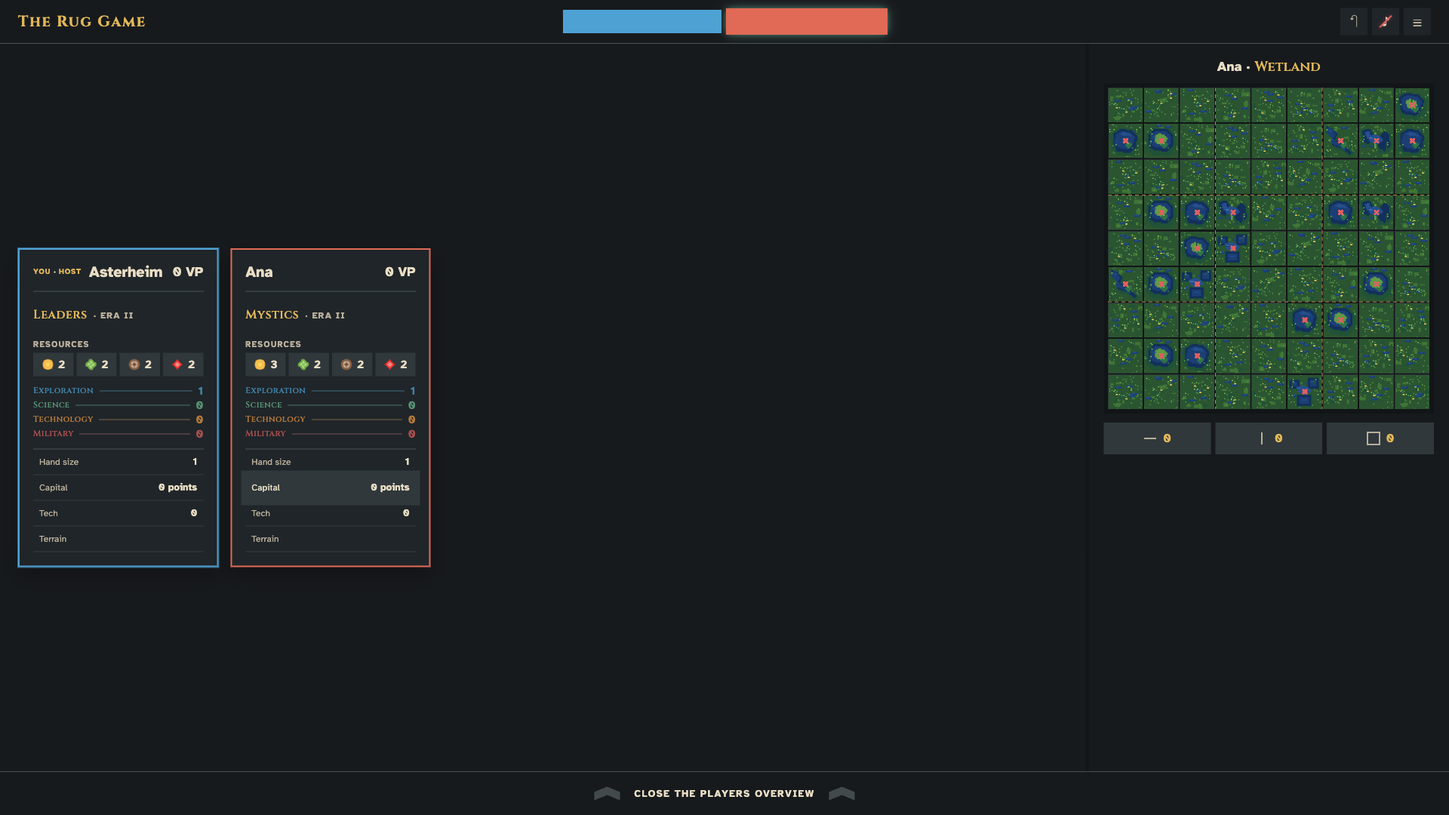
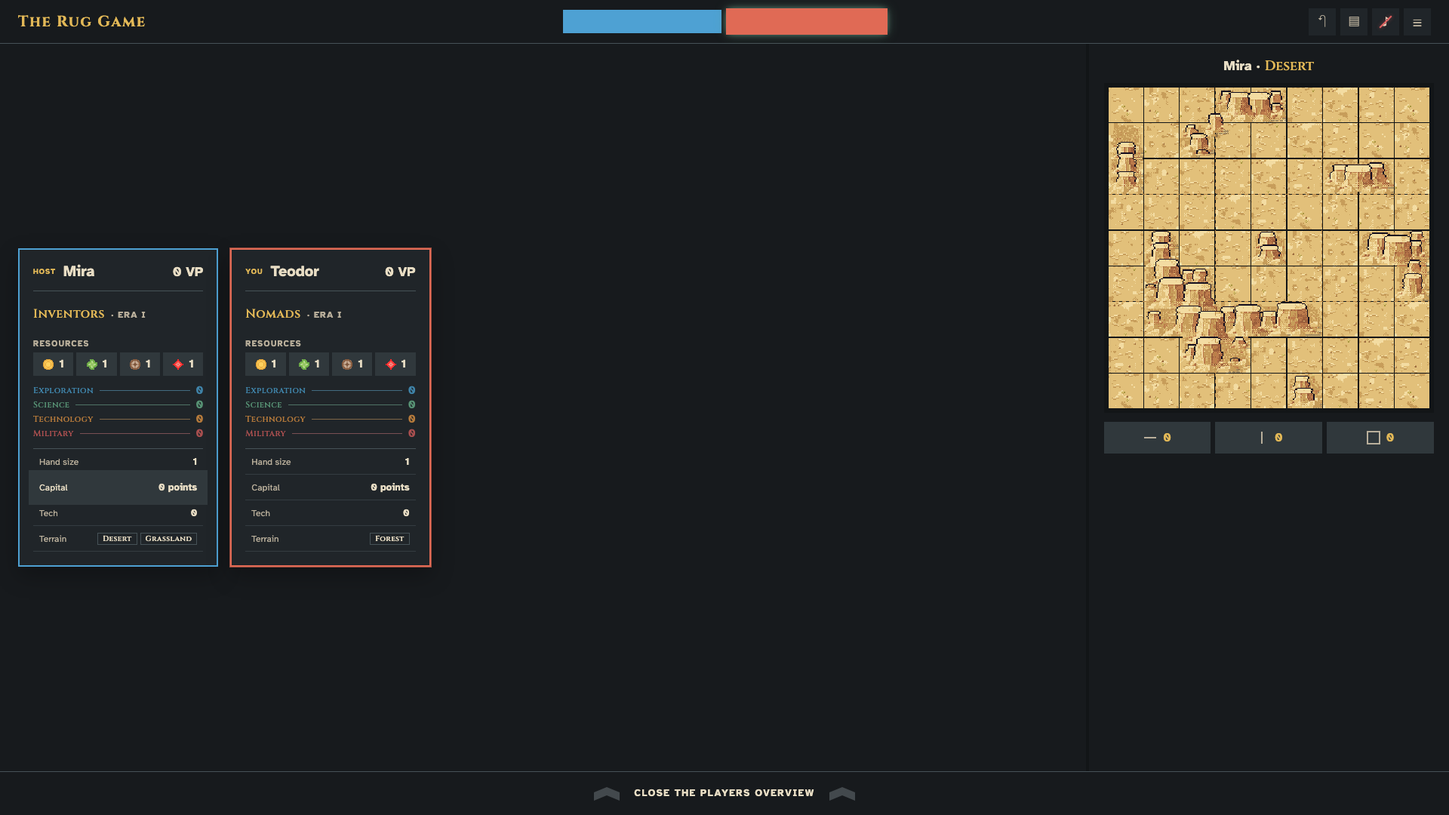
Fix #82: release the joined 2.5D terrain of the six base mats
The README's capital screenshots are retaken from the running game at 1920×1080: the
Capital tab (a Wetland mat with an Architects' cube), the players overview (a Desert
capital), the mats on offer at setup (Mountain and Forest), and the library's CapitalGrid.
README.md restates the owner's ruling on composed capitals; docs/ui/README.md drops the
red X and records the relief; docs/art/README.md adds capital-relief/ and the approval
rule; docs/architecture.md and docs/status.md record #82 and hand on #132, #133 and #134.

diff --git a/README.md b/README.md
@@ -14,19 +14,19 @@ No official Stonemaier artwork, logos or rulebook text are used.
 
 ## Current interface
 
-The six full capital mat SVGs are examples only. Actual capital mats must be generated from the reusable terrain tiles for each game, following the game setup and the rules-defined plot layout.
+The full capital mat SVGs are examples only. A game's capital is composed from its mat's printed layout: the buildable ground from reusable tiles picked by the table's seed, and the impassable plots from one relief picture per mat, drawn once by the art toolkit (owner, 2026-10-28, #82).
 
 The owner-reviewed icons and small pieces from **#5** are available as SVGs in `static/art/`, with matching drawing sources and stable catalog ids. [The release notes](docs/art/issue-5.md) list the approved set and explain the text rendering or later artwork for dice faces, terrain hex markers and game symbols. [The complete review mockup](docs/art/archive/2026-10-23-issue-5/README.md), including its linked capital terrain page, is archived as a frozen reference.
 
-| Resource components using the approved SVGs | Capital composed from terrain tiles |
+| Resource components using the approved SVGs | Capital composed from ground tiles under its relief (#82) |
 |---|---|
-| ![Resource component examples with the approved artwork](docs/ui/screens/issue-5-components-resources.png) | ![Capital component composed from tile SVGs and income-building artwork](docs/ui/screens/issue-5-components-capital.png) |
+| ![Resource component examples with the approved artwork](docs/ui/screens/issue-5-components-resources.png) | ![The component library's CapitalGrid: the Mountain mat's peaks joined across the grid over its alpine meadow, an Architects' cube on the top-left plot and a farm clearing the relief on an impassable plot, with the Forest mat's woods below](docs/ui/screens/issue-5-components-capital.png) |
 
-The component library now uses the approved resources in prices and chips, income-building SVGs on capital plots, track symbols in headings, and player-color token SVGs on progress lanes. Its Art sections show the complete issue #5 set and explain the three deferred groups. Capital examples compose individual terrain tile SVGs using their supplied biome, visual seed and plot mask; the six full mat SVGs remain example compositions only.
+The component library now uses the approved resources in prices and chips, income-building SVGs on capital plots, track symbols in headings, and player-color token SVGs on progress lanes. Its Art sections show the complete issue #5 set and explain the three deferred groups. Capital examples compose the ground tile SVGs from their supplied biome, visual seed and plot mask, and lay the mat's relief over its impassable plots (#82); the full mat SVGs remain example compositions only.
 
 The **UI/UX handoff for #3** is in [docs/ui/README.md](docs/ui/README.md). It is the manifest for building the real game pages: layout, typography, colours, control states, placement and decision examples. The HTML pages are interactive mockups with fixture data.
 
-**The landing page, the lobby (#25) and the play screen (#26) are built** and run on the real table API. Sign in by name, create or join a table, set it up and start; then play: the Advancement Tracks with the spaces you can pay for, the World Map as the real board's hex grid, composed from the terrain art (#6), the footer turn (income, or advance), and a designed prompt for every other decision (#28): resources and payments with their art, cards on a shelf above the panel, the map's territories with each explore's tile, turn and VP, buildings and landmarks placed on the Capital tab, dice and tracks, and the gold income turn with its steps. Several resources, cards or tiles are picked one by one, as on Board Game Arena (#75): each resource to choose is a row of the four resources, cards and tiles are pictures pressed several at once, and the panel sits at the screen's centre; an advance with a choice of payment opens that panel as soon as its space is picked. Every roll of the dice tumbles in the middle of every screen at the table, lands on the rolled faces under a caption, and fades (#61). A first turn is never a choice, so the game takes every player's income turn 1 as setup ends; each player then sees a notice, once, saying so and what they start with. A turn with no advance to pay for says so, with a gold **Take income** where **Advance** sits (#77). **How to play** in the game's menu explains the rules in our own words, one tab per part of the game, and a **Keyboard shortcuts** entry opens it on the list of every shortcut; hovering a player's chip reads their civilization's full ability (#42). The game plays from the keyboard too (#83): **I** takes income after asking first (as the **Take income** button does), **A** then **1–4** advances on a track, **Q W E R T Y U** switch the player tabs, **M** goes to the World Map, **1–5** open the players overview on a player, and holding **Tab** shows the log and scores. Each track space shows its benefit and its bonus, as on the printed board (#59); at setup each capital mat on offer is its real 9×9 grid (#56) and the civilization cards are whole at full size (#57, #58). The player area (#27) has the Capital, Hand, Income, Eras, Civ, Tech and Terrain tabs, with real tech and tapestry cards, and the header chips open the players overview. A whole base game can be played with the mouse. At a hot-seat table, a pass screen (#30) stands between players: it names the next one, whose view isn't even loaded until they take the screen. A defender at a hot-seat table answers a conquest themselves, trap or not, so nothing gives a trap away. When the game ends, the results screen (#29) shows the final standings with each player's VP by source, how any tie was decided and the table's rules; the host can deal again. The header's log button opens the table log and the current scores; sound cues start muted, and a little motion marks what just happened. Run `npm start` and open <http://127.0.0.1:3020/>.
+**The landing page, the lobby (#25) and the play screen (#26) are built** and run on the real table API. Sign in by name, create or join a table, set it up and start; then play: the Advancement Tracks with the spaces you can pay for, the World Map as the real board's hex grid, composed from the terrain art (#6), the footer turn (income, or advance), and a designed prompt for every other decision (#28): resources and payments with their art, cards on a shelf above the panel, the map's territories with each explore's tile, turn and VP, buildings and landmarks placed on the Capital tab, dice and tracks, and the gold income turn with its steps. Several resources, cards or tiles are picked one by one, as on Board Game Arena (#75): each resource to choose is a row of the four resources, cards and tiles are pictures pressed several at once, and the panel sits at the screen's centre; an advance with a choice of payment opens that panel as soon as its space is picked. Every roll of the dice tumbles in the middle of every screen at the table, lands on the rolled faces under a caption, and fades (#61). A first turn is never a choice, so the game takes every player's income turn 1 as setup ends; each player then sees a notice, once, saying so and what they start with. A turn with no advance to pay for says so, with a gold **Take income** where **Advance** sits (#77). **How to play** in the game's menu explains the rules in our own words, one tab per part of the game, and a **Keyboard shortcuts** entry opens it on the list of every shortcut; hovering a player's chip reads their civilization's full ability (#42). The game plays from the keyboard too (#83): **I** takes income after asking first (as the **Take income** button does), **A** then **1–4** advances on a track, **Q W E R T Y U** switch the player tabs, **M** goes to the World Map, **1–5** open the players overview on a player, and holding **Tab** shows the log and scores. Each track space shows its benefit and its bonus, as on the printed board (#59); at setup each capital mat on offer is its real 9×9 grid (#56) and the civilization cards are whole at full size (#57, #58). Each base mat's impassable plots are one 2.5D picture, its relief, laid over natural ground (#82): mountains, woods, reed beds round dark pools, jungle, desert buttes and rocky hills that join across the grid lines where the plots touch, with no red X. The Architects' cubes are small pieces on their plots, and a building on an impassable plot clears the relief there. The player area (#27) has the Capital, Hand, Income, Eras, Civ, Tech and Terrain tabs, with real tech and tapestry cards, and the header chips open the players overview. A whole base game can be played with the mouse. At a hot-seat table, a pass screen (#30) stands between players: it names the next one, whose view isn't even loaded until they take the screen. A defender at a hot-seat table answers a conquest themselves, trap or not, so nothing gives a trap away. When the game ends, the results screen (#29) shows the final standings with each player's VP by source, how any tie was decided and the table's rules; the host can deal again. The header's log button opens the table log and the current scores; sound cues start muted, and a little motion marks what just happened. Run `npm start` and open <http://127.0.0.1:3020/>.
 
 **The boards (#6)** are drawn: the map's six terrain hex pictures, the 48 territory tiles (clouds exactly where R77 says), both map sides as examples, and the 12 advanced capital biomes with their example mats. The game composes its map from the terrain pictures, as it composes the capital from its plot tiles. They wait for the owner's approval in the component library's Art part.
 
@@ -42,11 +42,11 @@ The colours, texture, type, spacing, shadows and motion of these designs are in 
 
 | Play: the player area (Capital) | Play: the players overview |
 |---|---|
-| ![The play screen with the Capital tab: Mira's Wetland mat with the Lighthouse placed, and the completion counters](docs/ui/screens/game-player-area.png) | ![The players overview: a card per player and Ana's Wetland capital opened on the right](docs/ui/screens/game-overview.png) |
+| ![The play screen with the Capital tab (#82): Teodor's Wetland mat, its reed beds and dark pools joined across the grid over a wet meadow, an Architects' cube on the top-left plot, and the completion counters](docs/ui/screens/game-player-area.png) | ![The players overview (#82): a card per player and Mira's Desert capital opened on the right, its buttes standing on pale sand](docs/ui/screens/game-overview.png) |
 
 | Prompt: choosing a capital | Prompt: choosing a civilization |
 |---|---|
-| ![The capital choice at the tracks' centre (#79): both mats as their 9×9 grids of terrain tiles above the panel, the chosen one outlined](docs/ui/screens/game-prompt-capital-mat.png) | ![The civilization choice at the tracks' centre (#79): both cards whole, sized to the room above the panel, the chosen one outlined in gold](docs/ui/screens/game-prompt-civ.png) |
+| ![The capital choice at the tracks' centre (#79, #82): the Mountain and Forest mats as their 9×9 grids, each with its relief over its ground, above the panel; the Mountain is chosen and outlined](docs/ui/screens/game-prompt-capital-mat.png) | ![The civilization choice at the tracks' centre (#79): both cards whole, sized to the room above the panel, the chosen one outlined in gold](docs/ui/screens/game-prompt-civ.png) |
 
 | Prompt: cards on the shelf (the tapestry draft) | Prompt: tech cards to invent |
 |---|---|

diff --git a/docs/ui/README.md b/docs/ui/README.md
@@ -216,9 +216,9 @@ The arrangement and selection styling are the reference. Labels such as Archipel
 
 **Built in #27 (2026-10-27): the player area and the players overview.**
 
-![The player area with the Capital tab](screens/game-player-area.png)
+![The player area with the Capital tab: Teodor's Wetland mat with its relief (#82) and an Architects' cube on the top-left plot](screens/game-player-area.png)
 
-![The players overview](screens/game-overview.png)
+![The players overview, with Mira's Desert capital opened on the right](screens/game-overview.png)
 
 - **The tabs** are the mockup's: Capital (the seat's real mat and plots, landmarks over the edge allowed, the counters, and what lies beside the mat), Hand (the tapestry cards overlapping; hovering shows one in full over the shared area), Income (the four rows, covered spaces with their building, exposed ones with their reward in words), Eras (the four slots, a face-down card shown as such, the active card in full), Civ (the reviewed card for the twelve base civilizations with a recipe, a plain portrait card for the other four until #47), Tech (the three rows and the display with the deck count) and Terrain (territory tiles drawn like the map's, and space tiles).
 - **Real cards:** the tech and tapestry cards are built from the engine's data through `describe.js`; no text is invented. Lazar's fixtures stay for the library and the card review.
@@ -227,7 +227,7 @@ The arrangement and selection styling are the reference. Labels such as Archipel
 
 **Built in #28 (2026-10-27): the decision prompts.**
 
-![Choosing a capital: each mat as its 9×9 grid](screens/game-prompt-capital-mat.png)
+![Choosing a capital: the Mountain and Forest mats as their 9×9 grids, each with its relief, the Mountain chosen](screens/game-prompt-capital-mat.png)
 
 ![Choosing a civilization: the cards whole](screens/game-prompt-civ.png)
 
@@ -298,6 +298,15 @@ The arrangement and selection styling are the reference. Labels such as Archipel
 - **The board and the players:** **M** goes to the World Map and back; **1–5** open the players overview on that player's capital, the same key closes it; holding **Tab** shows the log and scores until it is let go (a tap still moves the focus); **L** opens or closes them.
 - **Your player area:** **Q W E R T Y U** are Capital, Hand, Income, Eras, Civ, Tech and Terrain. **,** and **.** turn an explore's tile or a landmark being placed, since R is now the Eras tab. **H** and **K** open How to play and its Keyboard shortcuts tab.
 - No key acts while typing in a field, with Ctrl, Alt or Cmd held, in a menu or over How to play; an action key does nothing unless its action is available (`src/lib/hotkeys.js`).
+
+**Built in #82 (2026-10-28): the joined terrain of the base mats.** The owner set the look over five rounds of sketches and approved all six base mats in the component library on 2026-10-28. The design is `docs/superpowers/specs/2026-10-28-joined-terrain-design.md`. The Capital tab, the players overview and the mats on offer at setup all show it: see the screenshots under #27 and #28 above.
+
+- **One relief per mat.** A mat's impassable plots are one 2.5D picture, `capital-relief/<mat>`, drawn once from its printed layout and laid over the grid: mountains, woods, reed beds round dark pools, jungle, desert buttes or rocky hills. Plots that touch by a side or a corner are one mass, with no line inside it.
+- **Natural ground.** Every plot has a ground tile, picked by the table's seed as before, and the relief lies over the impassable ones.
+- **No red X** and no flat `--chrome` background on impassable plots (owner, 2026-10-28): the art shows which plots they are.
+- **Changes in play.** A building on an impassable plot (Terraforming) clears the relief on that plot. An Architects' cube is a small piece, `piece/architects-cube`, on its plot's ground.
+- **The grid's gap** is 1/296 of its width, so the plots line up with the relief's pixels.
+- The expansion mats keep their impassable tiles until #132 and #133 draw their reliefs.
 
 ### Three horizontal bands
 
@@ -375,7 +384,7 @@ No costs are really paid and no VP totals are persisted. The chained example pla
 
 The capital is always **9×9**. Its title is Atkinson with only the mat type, such as Mountain, in Cinzel. There is no separate legend or second city grid. Three equal-width completion counters sit beneath the grid with a gap equal to their mutual gaps; together they span the grid width. Use horizontal-line, vertical-line and square symbols for rows, columns and districts. Do not add the heading “Completed”.
 
-- The Mountain example uses the canonical 9×9 passable/impassable mask from `src/lib/engine/data/capitals.js`. Each plot uses a deterministic mix of the native Mountain open or blocked terrain tiles. Impassable plots retain a small, thick red X. District boundaries are thin dashed overlays between 3×3 districts; they do not recolour the ordinary plot borders.
+- The Mountain example uses the canonical 9×9 passable/impassable mask from `src/lib/engine/data/capitals.js`. Each plot uses a deterministic mix of the Mountain's ground tiles, and the mat's relief lies over its impassable plots: one 2.5D picture whose peaks join across the grid lines where the plots touch. Impassable plots have no red X (owner, 2026-10-28, #82); the mockup and its screenshots predate this and still show per-plot tiles with red Xs. District boundaries are thin dashed overlays between 3×3 districts; they do not recolour the ordinary plot borders.
 - Completion counts derive from filled rows, columns and nine-plot districts. Hovering a counter adds one flat transparent green rectangle across each whole completed group. It has no border, no glow, and covers all buildings, including a newly locked landmark. Do not highlight each plot as a separate green box.
 - A **To be placed** section appears only when an item is pending. It is full width, outlined to attract attention, and holds the item's Cinzel name. Selecting the item gives it an outline. The name stays in the tray and is not shown over the grid while dragging.
 - The Lighthouse example uses the actual landmark illustration and **four plots, a 2×2 footprint**. The whole piece is draggable. On release, it snaps to a legal position; it cannot enlarge or wrap the grid. It can be moved again before confirmation.
@@ -405,7 +414,7 @@ Each card contains, in order:
 
 Civilization/era, Capital and Tech summary rows are clickable examples. Hand size, resource amounts and track summaries are not clickable. A selected row gets a whole-row gray background without moving its text, expanding the card or keeping an internal border around letters. Hide the usual row-bottom separator while that row is selected.
 
-The right region initially says **Waiting for overview** at its centre. Ana's Capital row is the developed drill-down: it shows a second 9×9 capital with the same sizing, red Xs and completion-counter layout as the ordinary right-panel Capital tab. Its example filled rows, columns and districts can be inspected by hover or toggled by click. Other clickable rows only demonstrate selection and retain the waiting panel; do not treat them as completed views. Opponents' hands remain private and show counts only.
+The right region initially says **Waiting for overview** at its centre. Ana's Capital row is the developed drill-down: it shows a second 9×9 capital with the same sizing, relief and completion-counter layout as the ordinary right-panel Capital tab. The mockup's screenshot below predates the relief (#82) and still shows red Xs. Its example filled rows, columns and districts can be inspected by hover or toggled by click. Other clickable rows only demonstrate selection and retain the waiting panel; do not treat them as completed views. Opponents' hands remain private and show counts only.
 
 ![Inspecting Ana's capital](screens/opponent-capital.png)
 

diff --git a/docs/art/README.md b/docs/art/README.md
@@ -22,7 +22,9 @@ The design is in [2026-10-21-art-toolkit-design.md](../superpowers/specs/2026-10
 | `tools/art/painter.js` | The canvas, drawing helpers (`set`, `rect`, `line`, and `paint` for small sprites drawn from rows of keys), `outline`, `mix`, `seededRandom`, `underlay` and `toSvg` |
 | `tools/art/effects.js` | Light passes that blend colours over a painted canvas: `glow`, a banded glow around a lamp or fire. They live outside `tools/art/parts/`, whose parts paint only palette colours |
 | `tools/art/palette.js` | `PALETTE`: every named style C colour |
-| `tools/art/parts/` | Scene parts: `drawSky` (night, day, dusk), `drawSea` (night, day), `drawTerrain` (forest, mountain, desert, grassland), `drawBuilding` (house, tower, wall), `drawFigure`, `drawSmoke` (smoke, steam), `drawClassical` (pediment, flat), `drawFactory`, `drawSkyline` (night, dusk, day), `drawStreet`, `drawShip` (1–3 masts, either way, sails set or furled), `drawInterior` (plaster, stone, panel; with a window onto any sky), `drawBanner` (flag, hanging), `drawCrowd` and `drawWheel`. Board parts: `capital-terrain.js` (the capital plots and example mats), `capital-biomes/` (one module per advanced biome, #6: its 32×32 plots, its printed `LAYOUT` and its example mat), `territory.js` (#6: the terrain hex pictures, the cloud and volcano overlays, `drawTerritory` and the example boards) and `inspiration-tile.js` (`drawInspirationTile`, the strip of six framed spaces that each inspiration tile's innovations are drawn on) |
+| `tools/art/parts/` | Scene parts: `drawSky` (night, day, dusk), `drawSea` (night, day), `drawTerrain` (forest, mountain, desert, grassland), `drawBuilding` (house, tower, wall), `drawFigure`, `drawSmoke` (smoke, steam), `drawClassical` (pediment, flat), `drawFactory`, `drawSkyline` (night, dusk, day), `drawStreet`, `drawShip` (1–3 masts, either way, sails set or furled), `drawInterior` (plaster, stone, panel; with a window onto any sky), `drawBanner` (flag, hanging), `drawCrowd` and `drawWheel`. Board parts: `capital-terrain.js` (the base mats' buildable ground tiles and example mats), `capital-relief/` (below), `capital-biomes/` (one module per advanced biome, #6: its 32×32 plots, its printed `LAYOUT` and its example mat), `territory.js` (#6: the terrain hex pictures, the cloud and volcano overlays, `drawTerritory` and the example boards) and `inspiration-tile.js` (`drawInspirationTile`, the strip of six framed spaces that each inspiration tile's innovations are drawn on) |
+| `tools/art/parts/capital-relief/` | The joined 2.5D terrain of a capital mat's impassable plots (#82): `footprint.js` (the groups, the footprint and where the art may reach, corner patches included), `ground.js` (`drawNaturalGround`, the buildable ground of each base biome), one painter per base biome (`mountain.js`, `forest.js`, `wetland.js`, `tropical.js`, `desert.js`, `grassland.js`), and `index.js` (`drawRelief`, the relief alone on a transparent canvas, and `drawReliefPreview`, the relief over its ground as the game shows it, plus the specimen layout the library reviews each biome on) |
+| `src/lib/art/relief.js` | `RELIEF_BIOMES` (the biomes with a relief: the six base ones), `PLOT`, `GAP`, `PITCH` and `reliefSize`, shared by the art and the game's `CapitalGrid` |
 | `src/lib/art/footprints.js` | `FOOTPRINTS` for the 33 landmarks, `PLOT_SIZE` (32), `footprintMismatches` and `clipToFootprint` |
 | `src/lib/art/catalog.js` | `ASSETS`: every asset the game needs, with its stable id, plus `GROUPS` and `EXPANSIONS` |
 | `src/lib/art/hex-overlays.js` | Where the cloud and the volcano sit in a territory's 64×56 picture, shared by the art and the game's map (#6) |
@@ -79,6 +81,7 @@ The Lighthouse (`tools/art/drawings/landmark/lighthouse.js`) is the worked examp
   - Use `seededRandom(seed)`, never `Math.random()`, so a drawing comes out the same every time.
   - Give every part in one scene the same random stream.
 - **Review.** The owner approves art in the Art part of the component library (`/components.html`), until the players' card gallery (#47) exists. It replaced the standalone `art/preview/index.html` gallery on 2026-10-21.
+- **Approved assets.** [approved-assets.json](approved-assets.json) pins each approved asset's id, size and SVG hash, and `tests/art-approved.test.mjs` fails when one of them changes. The manifest is updated with the art on the issue branch, which merges only after the owner approves the batch (#82). Recompute an entry from `renderAsset(id)` in `tools/art/build.mjs`, as the test does; never type a hash by hand.
 
 Resource symbols have two active native sizes: 24×24 and 48×48. Their owner-supplied PNGs and exact-color SVG vectors are in `tools/art/exports/resources-24px-png/` and `tools/art/exports/resources-48px-png/`; the rendered SVGs are in `static/art/resource-24/` and `static/art/resource-48/`. Each source pixel is either opaque or fully transparent. The former 32×32 set is deprecated and archived in `docs/art/archive/resource-32-deprecated/`.
 
@@ -95,5 +98,13 @@ The map is composed, as the capital is (#5): the game never shows a painted boar
 - **Territory tiles.** `territory-tile/1–48` are the same composition in pixels. The game uses them nowhere that it composes: they are for the gallery's review.
 - **Example boards.** `board/map-small` and `board/map-large` are examples too, like the base capital mats.
 - **Clouds are game data (R77).** The engine's `TERRITORY_TILES` and printed hexes carry `clouds` and `volcano`. The art draws a cloud only where they say, in colours nothing else on the map uses, and `tests/art-territory.test.mjs` checks every tile and board against R77.
-- **Advanced capitals.** Each of the 12 advanced biomes has 8 buildable and 6 impassable 32×32 plots, and an example mat on its printed layout from 03-expansions. What the research doesn't show (rule text, icons, frames) is left out; each module says what.
+- **Advanced capitals.** Each of the 12 advanced biomes has 8 buildable and 6 impassable 32×32 plots, and an example mat on its printed layout from 03-expansions. What the research doesn't show (rule text, icons, frames) is left out; each module says what. #132 and #133 replace their impassable plots with reliefs, as #82 did for the base mats.
+
+## The joined terrain of the base mats (#82, 2026-10-28)
+
+The owner approved all six base mats on 2026-10-28. The design is [2026-10-28-joined-terrain-design.md](../superpowers/specs/2026-10-28-joined-terrain-design.md), and the approved sketch is kept in [issue-82/](issue-82/).
+- **One relief per mat.** `capital-relief/<mat>` is the mat's impassable plots drawn as one transparent picture from its printed layout: 32-pixel plots with 1-pixel gaps, so 296×296 for a 9×9 mat. Plots that touch by a side or a corner are one mass. The game lays it over the grid.
+- **The ground stays per plot.** `capital-terrain/<biome>-open-01` to `-08` are each base biome's natural ground, and the game still picks one per plot from the table's seed.
+- **The base impassable tiles are retired.** `capital-terrain/<biome>-blocked-*` no longer exist for the six base biomes; the expansion biomes keep theirs until #132 and #133.
+- **The example mats** `capital-mat/<biome>` are the ground with the relief over it, 296×296.
 

diff --git a/docs/status.md b/docs/status.md
@@ -8,7 +8,7 @@ Updated 2026-10-28. The issues are listed in the order they were finished.
 
 - **At a glance:**
   - M0 to M5 are built: a whole base game can be played with the mouse, online or hot-seat. One of their issues is still open: #45 (the owner checks R12 and R39 against the box).
-  - M12 · Cosmetic enhancements: #61, #66, #67, #68, #69, #70, #72, #74, #75, #79 and #80 are done.
+  - M12 · Cosmetic enhancements: #61, #66, #67, #68, #69, #70, #72, #74, #75, #79 and #80 are done. #82 (the joined terrain of the base mats) is built and its art approved; it closes when its branch merges into main.
   - #80's scan filed #84 and #86–#131, ranked in its summary comment.
   - Solo play (M6) and the expansions (M7–M9) come next by milestone; see [Working on issues](../CLAUDE.md#working-on-issues) for the order and the blockers.
 - **Done:**
@@ -29,6 +29,7 @@ Updated 2026-10-28. The issues are listed in the order they were finished.
   - #83 (the game's hotkeys) is done; its commit closed it on 2026-10-28, and the owner can still check the new TurnBar states in the component library.
   - #79 (every decision prompt at the tracks' centre, the prompt out of `Game.svelte`) is done; it merged and closed on 2026-10-28, after the owner's ruling on the library.
   - #80 is done: its findings are #84 and #86–#131.
+  - #82 (the joined terrain of the base mats) is built, and the owner approved all six base mats in the component library on 2026-10-28. It closes when its branch merges into main. The expansion mats follow in #132 (M8) and #133 (M9), and the World Map's terrain in #134 (M12).
   - Then the next unblocked issues by milestone (see [Working on issues](../CLAUDE.md#working-on-issues)).
   - #45 Check R12 (landmark heights) and R39 (decision-card arrows) against the physical box. This is the owner's job, and it blocks nothing.
   - The cosmetic boards wait in #51 until the core features are done.
@@ -58,6 +59,7 @@ Many issues were built without a question round, so their designs mark every uns
 - [#77 (the first turn takes income by itself)](#77-the-first-turn-takes-income-by-itself)
 - [#42 (How to play in the game)](#42-how-to-play-in-the-game)
 - [#83 (the game's hotkeys)](#83-the-games-hotkeys)
+- [#82 (the joined terrain of the base mats)](#82-the-joined-terrain-of-the-base-mats)
 
 ## Issues
 
@@ -514,6 +516,20 @@ Built on 2026-10-28. The design is `docs/superpowers/specs/2026-10-28-decision-p
   - Calls to revisit: the stack is centred in the shared area, so on the vertical its middle is the screen's, a little above the tracks' own middle (the board's head row sits above them); a dice roll over a stack of cards rolls over the player area; the options panel's 480 to 900 px width and the shelf's 18 px gap are #28's.
   - Tests: `tests/client-prompts.test.mjs` (`panelControls`, `paymentControls`), `tests/client-prompt-state.test.mjs` (resets, explore, picks, trades, shelf, placement, payment, sending), `tests/client-board.test.mjs` (`spaceWords`), `tests/browser/decision-prompt.test.mjs` (a card choice and an options prompt open at the tracks' centre); the pick tests measure against the tracks' centre.
   - Handed off: #86, #88, #92, #96, #97, #99, #105, #116, #117, #118, #119, #126, #129 and #131 waited for this.
+
+### #82 (the joined terrain of the base mats)
+
+Built on 2026-10-28. The owner set the look over five rounds of throwaway sketches ("More realistic and less symbolic", "Make it visually appear 2.5D"), then approved all six base mats in the component library on 2026-10-28 ("ok push to main"). Mountain and Forest were drawn first, from the approved sketch; Wetland, Tropical, Desert and Grassland followed without one. The owner scoped the issue to the base game ("just the base game for now"). The design is `docs/superpowers/specs/2026-10-28-joined-terrain-design.md` and the plan `docs/superpowers/plans/2026-10-28-joined-terrain-issue-82.md`.
+- Built: `tools/art/parts/capital-relief/` draws a mat's impassable plots as one 2.5D picture, its relief (`capital-relief/<mat>`, 296×296, transparent), from the mat's printed layout. Plots joined by a side or a corner make one group. Its footprint is inset from the open sides with rounded corners, and a corner-only join gets a small patch that may reach into the buildable plots' corners (owner). Each biome has a painter: snow-capped peaks, broadleaf trees and pines, reed beds round dark pools, jungle with palms, sandstone buttes among dunes, and grassy hills with stone tors. `ground.js` draws each biome's natural ground.
+  - The base `capital-terrain/<biome>-open-01` to `-08` are now that natural ground, and the example mats `capital-mat/<biome>` are the ground with the relief over it.
+  - `CapitalGrid` lays the relief over its ground tiles, under the buildings. The red X and the flat background on impassable plots are gone (owner), and the gap is 1/296 of the width, so the plots line up with the relief's pixels.
+  - `src/lib/capital-terrain.js` (`plotTerrain`, `reliefUrl`) decides what each plot shows. A building on a printed impassable plot (Terraforming) clears the relief there. An Architects' cube is now a piece of its own, `piece/architects-cube`, on its plot's ground.
+  - The library's Art area has a Capital relief group: each mat's relief on its ground, and a specimen sheet per biome with every kind of join.
+- Released: the 36 base impassable tiles are retired, with their drawings, SVGs and catalog entries. `docs/art/approved-assets.json` pins the redrawn ground tiles and example mats, the six reliefs and the cube: 101 entries. From now on the manifest is updated with the art on the issue branch, which merges only after the owner approves the batch (`docs/art/README.md`).
+- The README's capital screenshots are retaken from the running game: the Capital tab, the players overview, the mats on offer at setup and the library's CapitalGrid.
+- Calls to revisit after playing: Tropical's palms barely read as palms at the Capital tab's size; the Desert's butte outlines are strong; the Grassland's golden ground may read as sand. Each mat's relief is the same in every game, like the printed mat, and only the ground varies with the table's seed (my call).
+- Tests: `tests/art-capital-relief.test.mjs` (the groups, joins, footprints and corner patches on every base mat and the specimen layouts; each relief the same in every build, palette colours only, nothing on a buildable plot outside a corner patch; each biome's ground and corner piece), `art-capital-terrain` (the natural ground and the 296×296 example mats), `client-capital-terrain` (what each plot shows), `art-approved` (the 101 pinned assets), and the library's browser tests (the relief's place in the stack, the cube, a cleared plot, the gap, a landmark over the edge, a mat on offer, and targets under a corner patch).
+- Handed off: #132 (the Arts & Architecture mats' reliefs, M8) and #133 (the Fantasies & Futures mats', M9), each done the same way, with the advanced mats' printed features kept; #134 (the World Map's terrain hexes and territory tiles in the 2.5D style, M12).
 
 ## Card-design handoff (2026-10-24, Refs #3 #47)
 

diff --git a/docs/architecture.md b/docs/architecture.md
@@ -28,7 +28,9 @@ The project's modules in detail, with the issue that added each. CLAUDE.md keeps
     - `component-event.js` holds `ComponentEvent`;
     - `ui.js` holds the shared interface ids (tracks, resources, terrain, seats) and turns them into token references;
     - `capital.js` holds the capital-grid geometry the interface needs: footprint rotation, legal positions and completed groups;
-    - `art/catalog.js` lists all 413 assets with stable `<group>/<slug>` ids. It imports nothing, so the app and the engine can load it;
+    - `capital-terrain.js` (#82) decides what each capital plot shows: `plotTerrain` gives its ground tile, whether a building cleared a printed impassable plot under the relief, and whether an Architects' cube sits on it; `reliefUrl` names the mat's relief, or none for a mat without one;
+    - `art/relief.js` (#82) holds the relief geometry shared by the art and `CapitalGrid`: `RELIEF_BIOMES` (the six base biomes), `PLOT`, `GAP`, `PITCH` and `reliefSize`;
+    - `art/catalog.js` lists all 678 assets with stable `<group>/<slug>` ids. It imports nothing, so the app and the engine can load it;
     - `art/hex-overlays.js` holds where the cloud and volcano overlays sit in a territory's 64×56 picture, shared by the art and the map (#6);
     - `art/footprints.js` holds the 33 landmark footprints. A landmark's picture is drawn in its footprint's shape at 32 pixels per plot, and the art build refuses one that covers the wrong plots. The rules engine must reuse this module;
     - `engine/` holds the rules engine, shared by the server and the app. It imports only relative paths: no DOM, Svelte or Node. Its `data/` folder holds the base-game data (#12), plain frozen modules: `ids.js` (versions with their tiebreak chains, and the track, resource, building and terrain ids), `effects.js` (the effect vocabulary), `tracks.js`, `income-mat.js`, `capitals.js`, `maps.js`, `territory-tiles.js`, `space-tiles.js`, `tech-cards.js`, `tapestry-cards.js`, `landmarks.js`, `achievements.js` and `dice.js`. Every benefit is a list of one-key effects such as `{ gain: { any: 1 } }`, explained in `docs/superpowers/specs/2026-10-24-base-game-data-design.md`.
@@ -43,7 +45,7 @@ The project's modules in detail, with the issue that added each. CLAUDE.md keeps
   - The configuration lives in `vite.config.js`, `svelte.config.js` (`runes: true`), `jsconfig.json` (`checkJs`, `strict`, Vite client types), `.prettierrc` and `.prettierignore`.
 - `tools/` holds the build-time tools: `tools/art/` is the art drawing toolkit (#4), and `tools/dev.mjs` runs the dev servers.
 - `tools/art/` is the art drawing toolkit (#4). It draws the pictures; their SVGs go to `static/art/`, which the build copies. See `docs/art/README.md`.
-  - `painter.js`, `palette.js` and `parts/` draw style C pixel art. `drawings/<id>.js` holds one module per drawn asset. #6 adds `parts/territory.js` (the terrain hex pictures, the overlays, the territory tiles and the example boards) and `parts/capital-biomes/` (one module per advanced capital biome, each with its `LAYOUT` and `FEATURES`).
+  - `painter.js`, `palette.js` and `parts/` draw style C pixel art. `drawings/<id>.js` holds one module per drawn asset. #6 adds `parts/territory.js` (the terrain hex pictures, the overlays, the territory tiles and the example boards) and `parts/capital-biomes/` (one module per advanced capital biome, each with its `LAYOUT` and `FEATURES`). #82 adds `parts/capital-relief/`: each mat's impassable plots drawn as one joined 2.5D relief from its printed layout (`footprint.js`, a painter per base biome, `drawRelief` and `drawReliefPreview` in `index.js`), and the base biomes' natural ground (`ground.js`), which `parts/capital-terrain.js` now draws the base buildable tiles and example mats from.
   - It reads the asset ids and footprints from `src/lib/art/`.
   - `gallery.js` holds the scene-part samples, the grouping the owner reviews art in, and the check every drawing must pass. It has no Node APIs, so the library page runs it in the browser.
   - `npm run art` writes the SVGs into `static/art/`, which are committed. Tests fail when a committed SVG is out of date.
